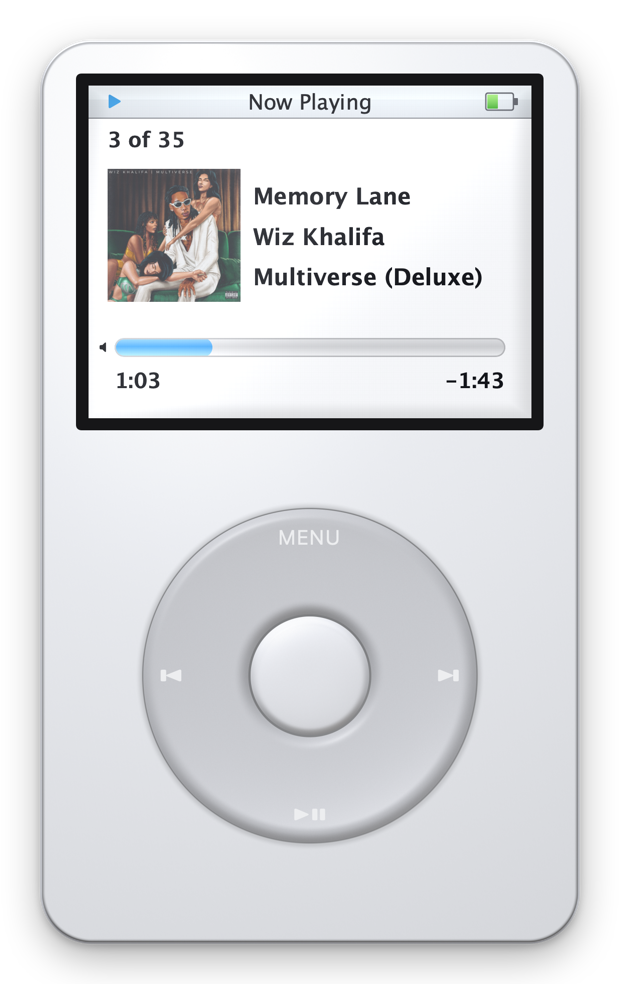
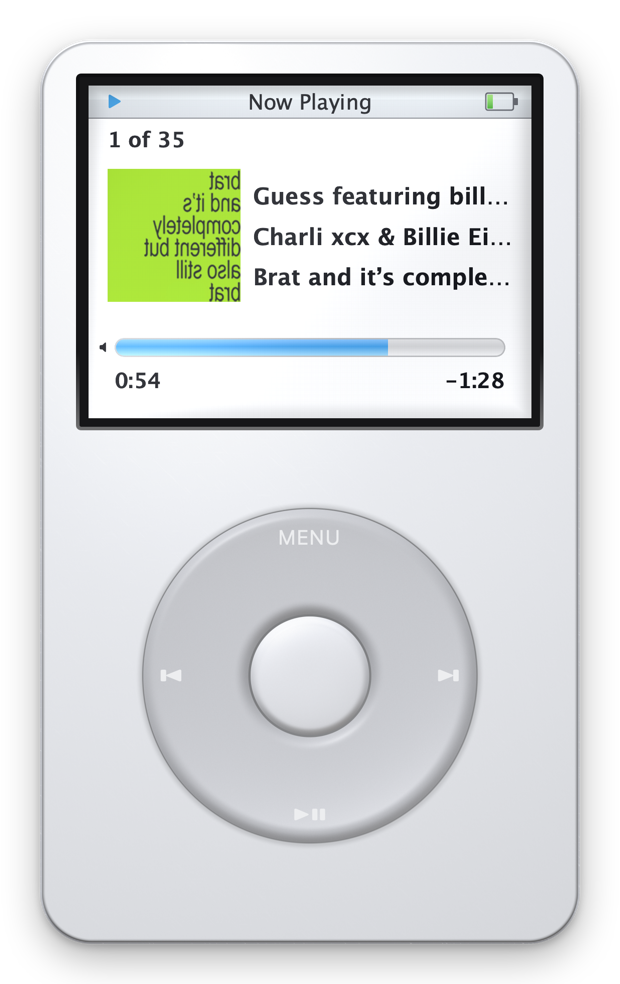
The realism pass: glass, light and twenty years of wear
Four things said 'render' instead of 'photo', and each gets its own
treatment. The LCD now sits a millimetre behind the acrylic: the
opening's top lip shades the recess, the window edge catches the room
along its lower lip, and a soft halo pools where the opening cuts into
the plastic. The backlight is edge-lit like the real CCFL — brighter
toward the lamp at the bottom, faint corner bleed, a touch of falloff
up top. The clearcoat carries hairline swirls that ride the specular
term only, so they flash when the highlight crosses them and vanish
face-on, the way twenty-year-old acrylic behaves in photographs. And
the face now bows away over its last few millimetres, with the wheel's
occlusion pooling wide and soft — the broad falloff that makes the
object read as a volume instead of a sticker.

The lighting also answers the cursor now: the pointer nudges the key
light and sheen around the window's own anchor, polled from
NSEvent.mouseLocation with the writes stopping once converged, so an
idle app stops re-rendering. Snapshots take CLICKWHEEL_SNAPSHOT_INDEX
to pick which favourite is staged. Site images regenerated.

diff --git a/Sources/Clickwheel/App/ClickwheelApp.swift b/Sources/Clickwheel/App/ClickwheelApp.swift
@@ -18,6 +18,11 @@ struct RootView: View {
     /// view in it can ever hold keyboard focus.
     @State private var keys = KeyMonitor()
 
+    /// Where the window sits on screen, 0...1, the base the cursor offsets.
+    @State private var roomAnchor = CGPoint(x: 0.5, y: 0.5)
+    @State private var hostWindow: NSWindow?
+    @State private var cursorTask: Task<Void, Never>?
+
     var body: some View {
         IPodBody(height: height, sheen: sheen, light: light)
             .padding(Self.shadowPadding)
@@ -25,8 +30,15 @@ struct RootView: View {
                 configure(window)
             })
             .task { await start() }
-            .onAppear { keys.start { handleKey($0) } }
-            .onDisappear { keys.stop() }
+            .onAppear {
+                keys.start { handleKey($0) }
+                startCursorTracking()
+            }
+            .onDisappear {
+                keys.stop()
+                cursorTask?.cancel()
+                cursorTask = nil
+            }
     }
 
     /// Room around the body for the drop shadow to render into; the window
@@ -162,13 +174,59 @@ struct RootView: View {
 
     /// Maps the window's position on screen to where the reflection falls.
     private func updateSheen(for window: NSWindow) {
+        hostWindow = window
         guard let screen = window.screen ?? NSScreen.main else { return }
         let x = (window.frame.midX - screen.frame.minX) / max(1, screen.frame.width)
         let y = (window.frame.midY - screen.frame.minY) / max(1, screen.frame.height)
-        sheen = 0.12 + (x * 0.55) + (1 - y) * 0.35
-        // Same signal drives the plastic's key light, so body and glass move
-        // together rather than the reflection sliding over a static object.
-        light = CGPoint(x: (x - 0.5) * 0.9, y: (y - 0.5) * 0.6)
+        roomAnchor = CGPoint(x: x, y: y)
+        (sheen, light) = Self.room(atX: x, y: y)
+    }
+
+    /// One mapping from a screen-space position to the lighting uniforms, so
+    /// the window signal and the cursor signal cannot drift apart. The same
+    /// value drives the glass sheen and the plastic's key light: body and
+    /// glass move together rather than a reflection sliding over a static
+    /// object.
+    private static func room(atX x: CGFloat, y: CGFloat) -> (CGFloat, CGPoint) {
+        let sheen = 0.12 + (x * 0.55) + (1 - y) * 0.35
+        let light = CGPoint(x: (x - 0.5) * 0.9, y: (y - 0.5) * 0.6)
+        return (sheen, light)
+    }
+
+    // MARK: - Cursor parallax
+
+    /// The cursor nudges the lighting around the window's own anchor, so the
+    /// reflections shift as the pointer passes — the object answers the room
+    /// instead of holding a pose. Polled: `NSEvent.mouseLocation` needs no
+    /// event monitor and no permission, and the writes stop once converged.
+    private func startCursorTracking() {
+        guard cursorTask == nil else { return }
+        cursorTask = Task {
+            while !Task.isCancelled {
+                try? await Task.sleep(for: .milliseconds(33))
+                trackCursor()
+            }
+        }
+    }
+
+    private func trackCursor() {
+        guard let window = hostWindow, let screen = window.screen ?? NSScreen.main else { return }
+        let mouse = NSEvent.mouseLocation
+        let dx = (mouse.x - window.frame.midX) / max(1, screen.frame.width)
+        let dy = (mouse.y - window.frame.midY) / max(1, screen.frame.height)
+        let (targetSheen, targetLight) = Self.room(
+            atX: roomAnchor.x + dx * 1.1,
+            y: roomAnchor.y + dy * 1.1
+        )
+
+        let stepSheen = (targetSheen - sheen) * 0.22
+        let stepX = (targetLight.x - light.x) * 0.22
+        let stepY = (targetLight.y - light.y) * 0.22
+        // Converged: stop touching @State so an idle app stops re-rendering.
+        guard abs(stepSheen) + abs(stepX) + abs(stepY) > 0.0006 else { return }
+        sheen += stepSheen
+        light.x += stepX
+        light.y += stepY
     }
 }
 

diff --git a/Sources/Clickwheel/UI/Body/IPodBody.swift b/Sources/Clickwheel/UI/Body/IPodBody.swift
@@ -62,6 +62,16 @@ struct IPodBody: View {
         let bezelInset = 1.4 * scale
 
         return ZStack {
+            // A soft occlusion halo where the window cuts into the plastic —
+            // the plastic shades gently into the opening instead of meeting
+            // the black frame at a hard boundary.
+            RoundedRectangle(cornerRadius: (Metrics.screenCornerRadius + 1.0) * scale, style: .continuous)
+                .fill(.black)
+                .frame(width: screenWidth + bezelInset * 2 + 1.2 * scale,
+                       height: screenHeight + bezelInset * 2 + 1.2 * scale)
+                .blur(radius: 1.1 * scale)
+                .opacity(0.18)
+
             // The LCD's own black frame, visible as a thin border on the real
             // device between the white plastic and the active area.
             RoundedRectangle(cornerRadius: (Metrics.screenCornerRadius + 0.6) * scale, style: .continuous)
@@ -84,6 +94,30 @@ struct IPodBody: View {
                     sheen: sheen,
                     unit: unit
                 )
+
+            // The acrylic window's edge. Its lower lip catches the room and
+            // its upper one sits in shadow — the cue that there is a
+            // transparent material with thickness here, not a black border
+            // printed on the face.
+            RoundedRectangle(cornerRadius: (Metrics.screenCornerRadius + 0.6) * scale, style: .continuous)
+                .strokeBorder(
+                    LinearGradient(
+                        stops: [
+                            .init(color: .black.opacity(0.32), location: 0.00),
+                            .init(color: .clear, location: 0.22),
+                            .init(color: .clear, location: 0.78),
+                            .init(color: .white.opacity(0.38), location: 1.00),
+                        ],
+                        startPoint: .top,
+                        endPoint: .bottom
+                    ),
+                    lineWidth: 0.4 * scale
+                )
+                .frame(
+                    width: screenWidth + bezelInset * 2,
+                    height: screenHeight + bezelInset * 2
+                )
+                .allowsHitTesting(false)
         }
         .frame(width: screenWidth + bezelInset * 2, height: screenHeight + bezelInset * 2)
         .offset(

diff --git a/Sources/Clickwheel/App/Snapshot.swift b/Sources/Clickwheel/App/Snapshot.swift
@@ -147,7 +147,12 @@ enum Snapshot {
             navigator.finishBoot()
             if let list = services.library.favourites,
                let songs = services.library.cachedSongs(in: list), !songs.isEmpty {
-                services.player.stageForPreview(list: list, songs: songs, index: 2)
+                // Which favourite gets staged; artwork varies with the library.
+                let index = ProcessInfo.processInfo.environment["CLICKWHEEL_SNAPSHOT_INDEX"]
+                    .flatMap { Int($0) } ?? 2
+                services.player.stageForPreview(
+                    list: list, songs: songs, index: min(max(0, index), songs.count - 1)
+                )
                 await services.player.loadPreviewArtwork()
             }
             navigator.previewPush(.nowPlaying)
